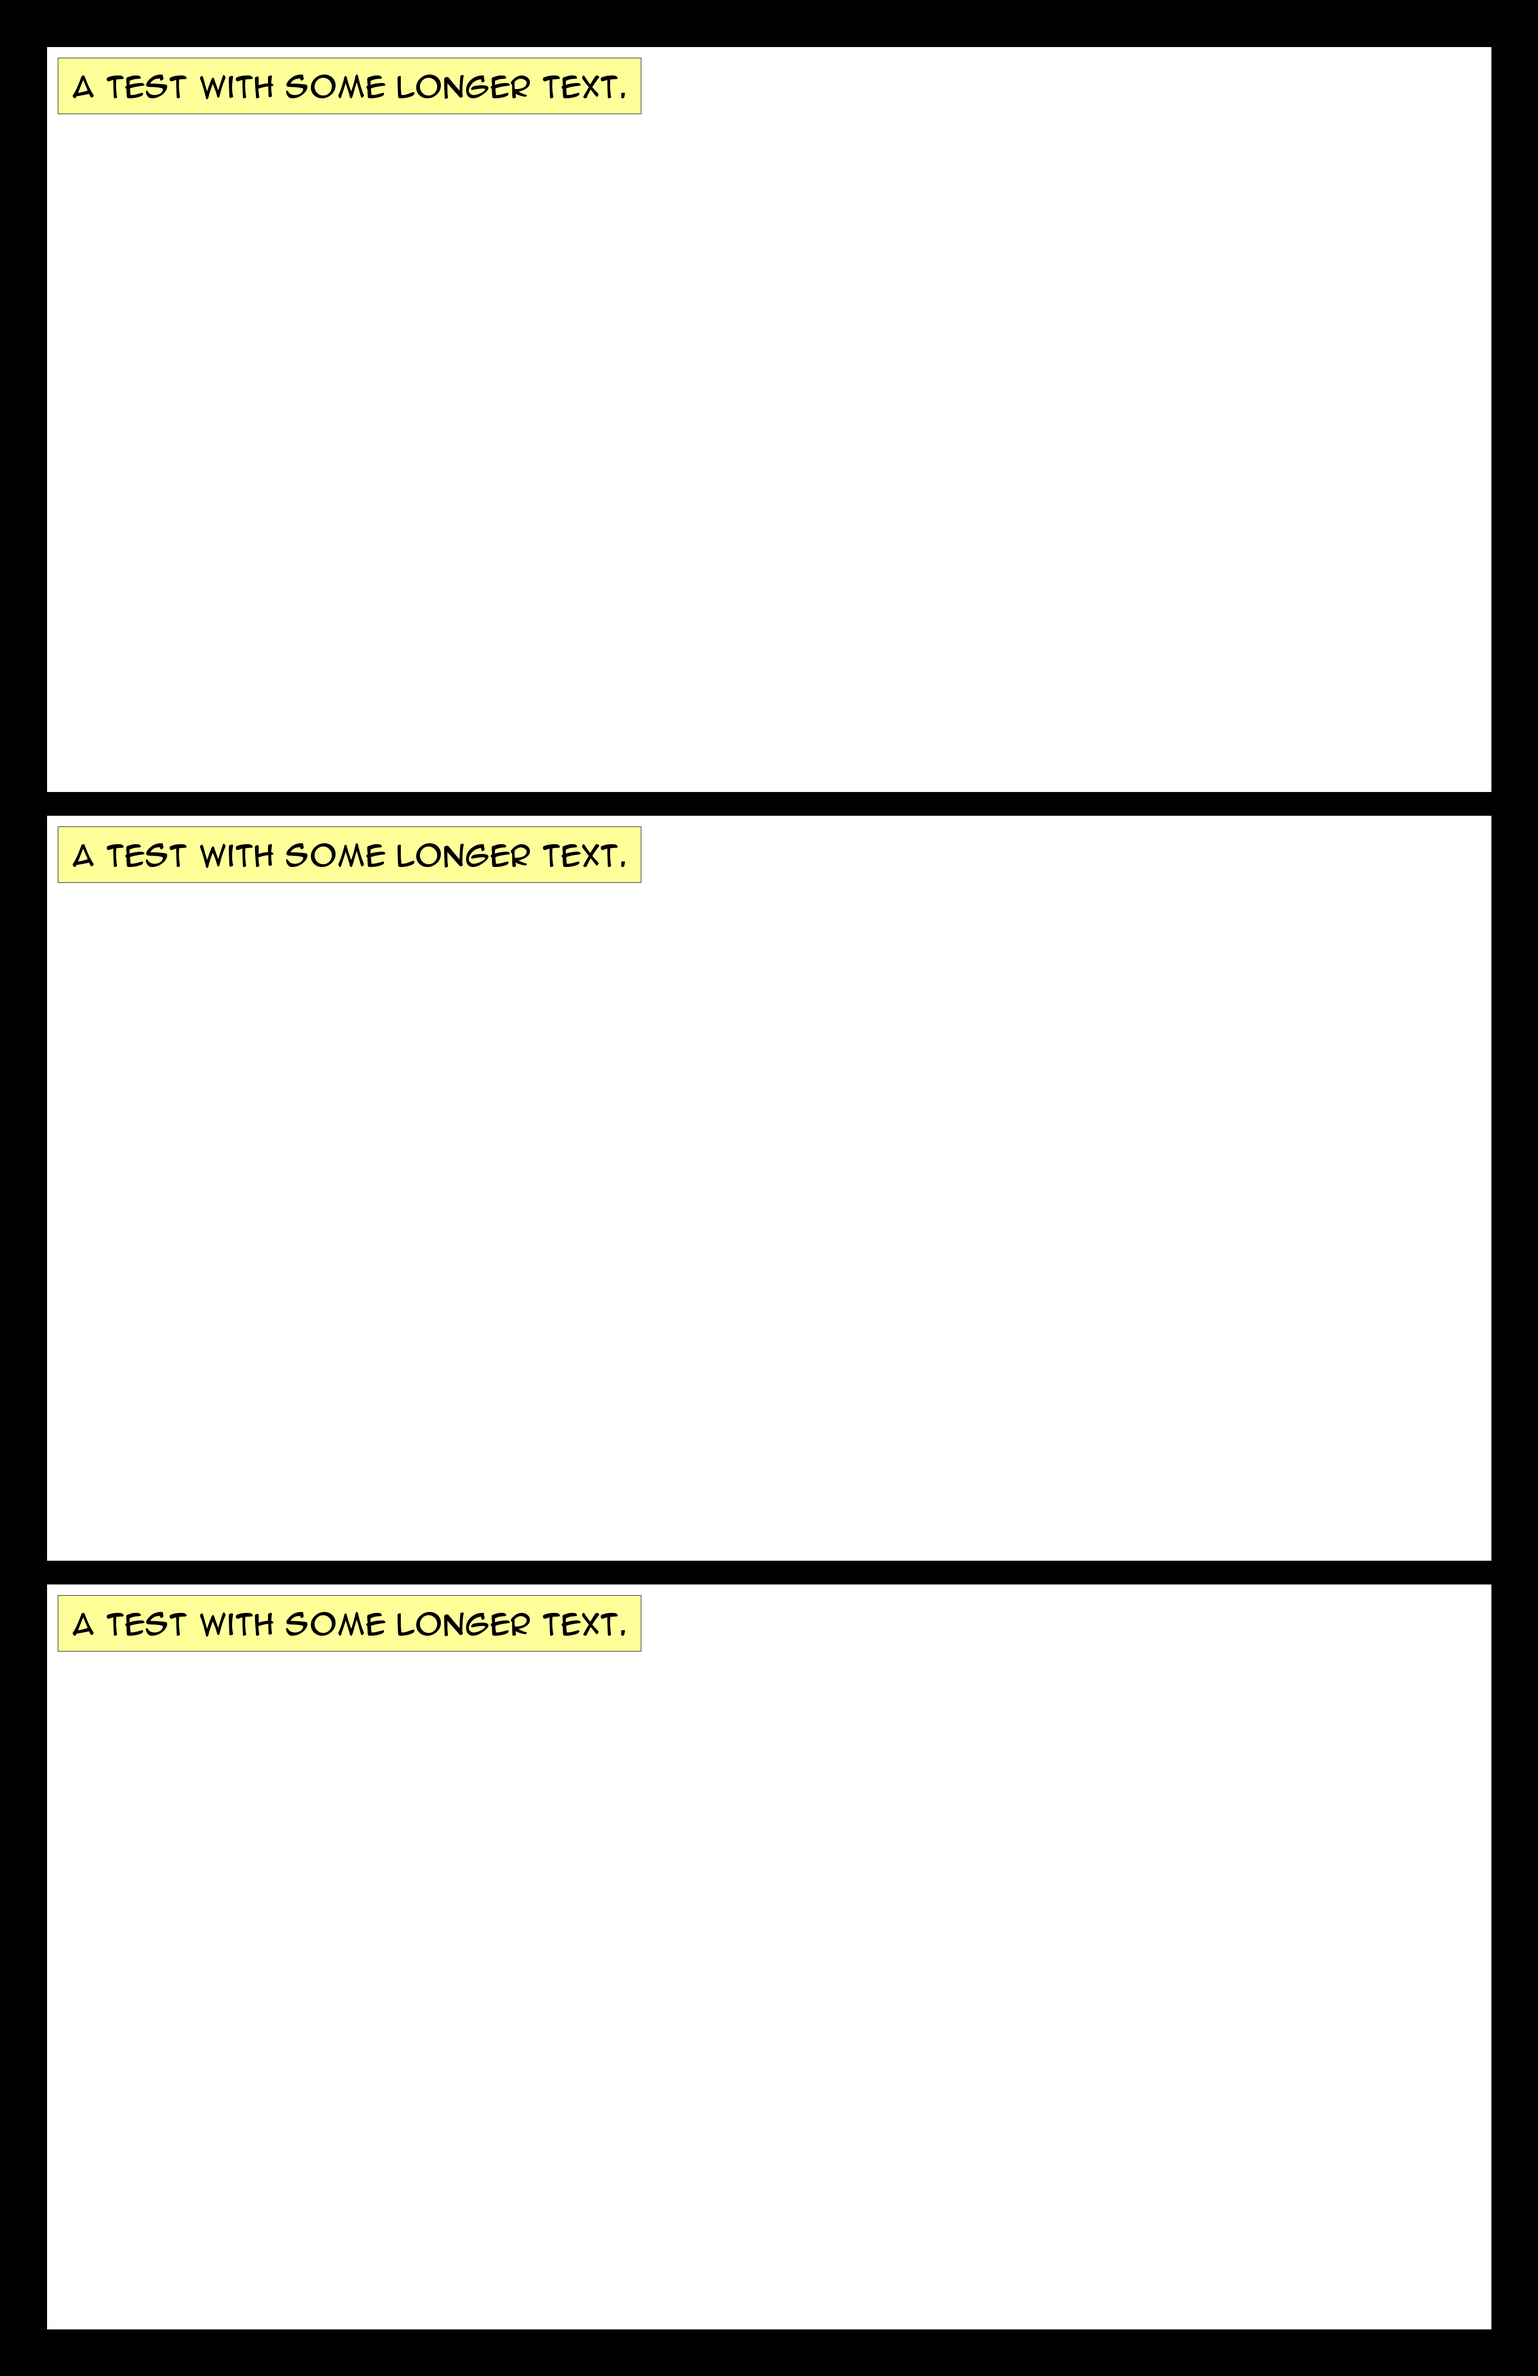
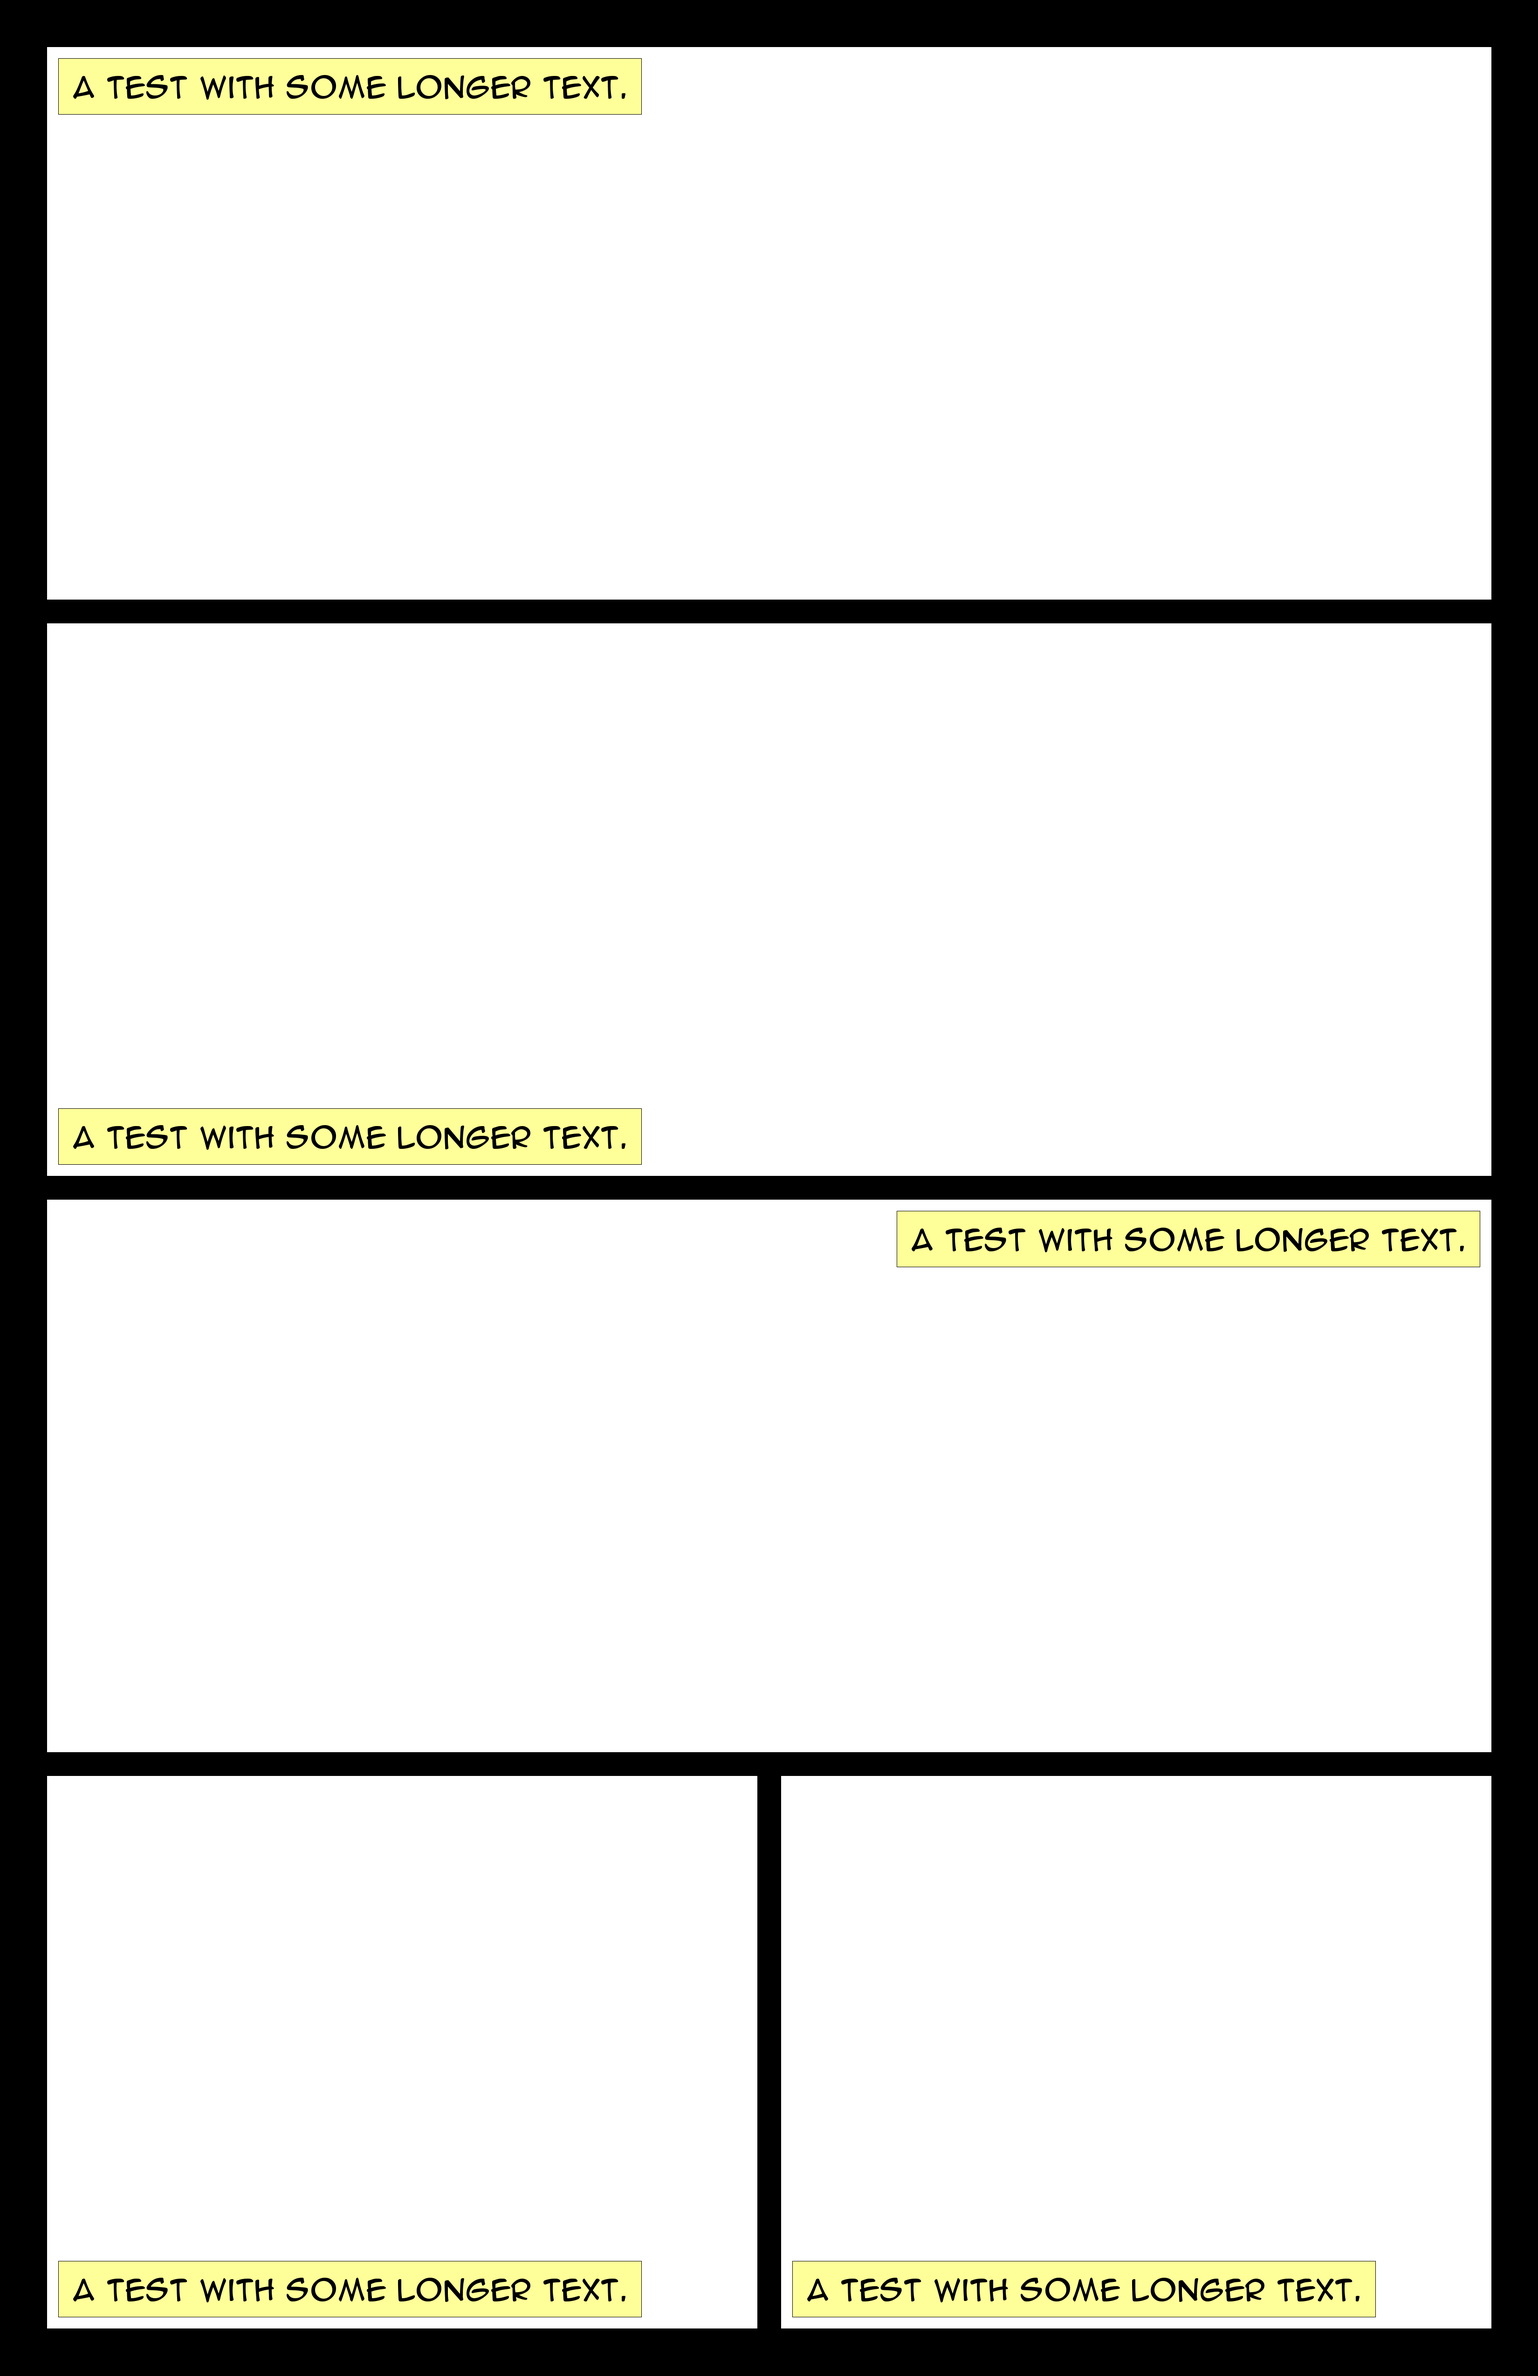
Up to four panel positions for 'Meanwhile' boxes. I am pretty sure they have a technical term associated with them.

diff --git a/rendering.py b/rendering.py
@@ -21,17 +21,11 @@ class Lettering:
 	_TYPE = None
 	_SIZE = 60
 
-	def makeBox(self, dim, img, lh, iw, ih):
-		#iw,ih = img.size
+	def makeBox(self, dim, img, lh, iw, ih, next_x, next_y):
 		tw,th = dim
 		bg = (255,255,153)
-		#locs = [((iw*.06),(ih*.06)),
-		#        ((iw*.985)-(tw+self._SIZE),(ih*.06)),
-		#	((iw*.06),(ih*.90)-(lh)),
-		#	((iw*.985)-(tw+self._SIZE),(ih*.90)-(lh)),
-		#	((iw*.06),(ih*.50)),
-		#	((iw*.985)-(tw+self._SIZE),(ih*.50))]
-		locs = [((iw,ih))]
+		locs = [((iw,ih)),((next_x-(25+tw+self._SIZE),ih)),
+			((iw,next_y-(25+th+self._SIZE))),((next_x-(25+tw+self._SIZE),next_y-(25+th+self._SIZE)))]
 		loc_x,loc_y = random.choice(locs)
 		draw = ImageDraw.Draw(img)
 		draw.rectangle([(loc_x,loc_y),
@@ -52,26 +46,6 @@ class Lettering:
 		self._FACE = type
 		self._TYPE = ImageFont.truetype(type,self._SIZE)
 
-	#def makeLettering(self, s, img):
-	#	def resize(s):
-	#		seed = random.randint(15,25)
-	#		frag = textwrap.wrap(s[0],seed)
-	#		return frag
-	#	iw,ih = img.size
-	#	tw, th = self._TYPE.getsize(max(s,key=len))
-	#	if tw > (iw-(iw*.025)):
-	#		s = resize(s)
-	#		self.makeLettering(s,img)
-	#	else:
-	#		sets = [self._TYPE.getsize(frag) for frag in s]
-	#		tw,th = max(sets)
-	#		if len(s) > 1: lh = ((len(s) * th) + self._SIZE)
-	#		else: lh = self._SIZE
-	#		img,loc = self.makeBox((tw,lh),img,lh)
-	#		img = self.setText(img,loc,s,lh)
-	#	return img
-
-
 	def makeLettering(self, s, img, artbox):
 		def resize(s):
 			seed = random.randint(15,25)
@@ -91,6 +65,6 @@ class Lettering:
 				tw,th = max(sets)
 				if len(s) > 1: lh = ((len(s) * th) + self._SIZE)
 				else: lh = self._SIZE
-				img, loc = self.makeBox((tw,lh),img,lh,(x-tw/tw)+25,(y-th/th)+25)
+				img, loc = self.makeBox((tw,lh),img,lh,x+25,y+25,next_x,next_y)
 				img = self.setText(img,loc,s,lh)
 		return img
